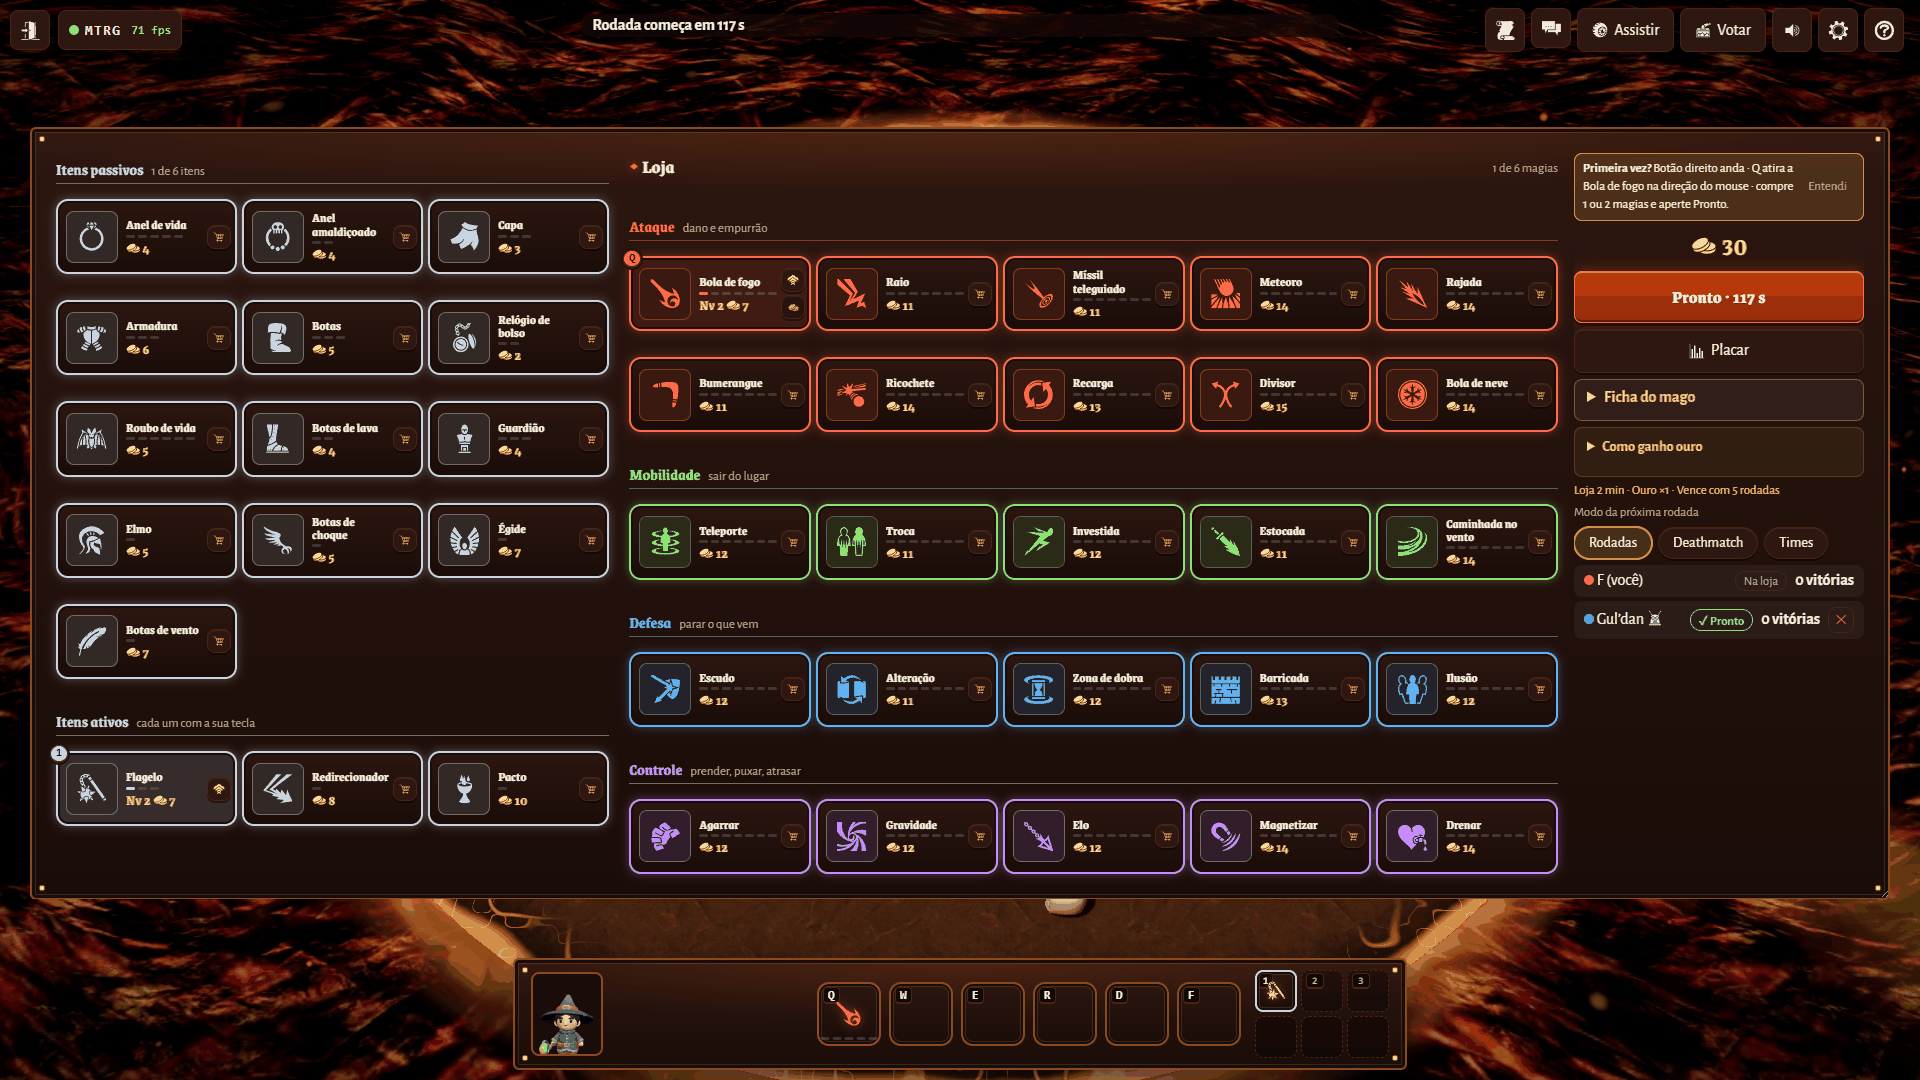
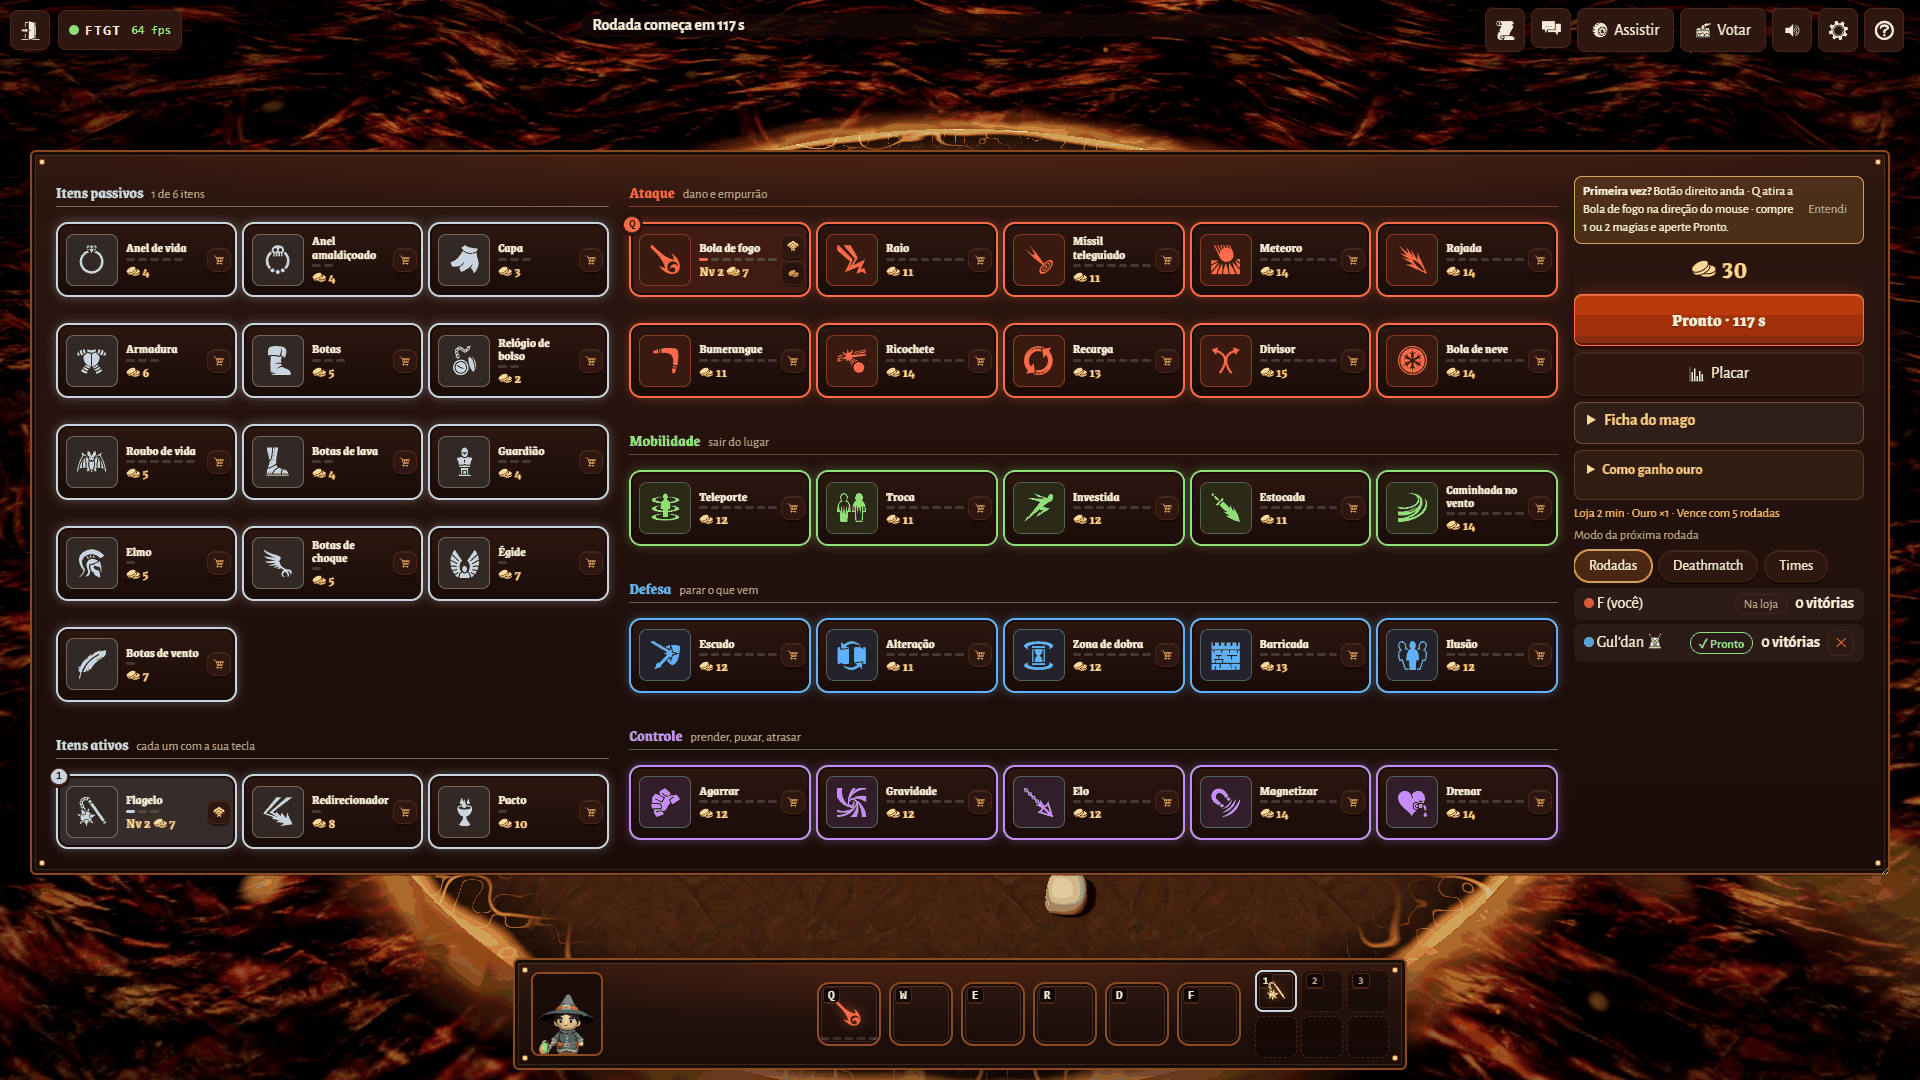
style: loja sem título e sem a contagem de magias, colunas alinhadas
- "Ataque" na mesma linha de "Itens passivos" (pedido do Fernando); o ✕ da loja da partida vai para o canto da caixa
- regras de reticências do título apagadas (sem uso)

diff --git a/src/client/style.css b/src/client/style.css
@@ -1130,11 +1130,12 @@ div.shop-tile { border-color: var(--line); box-sizing: border-box; }
   .compact-shop .shop-main, .compact-shop .shop-items { gap: var(--gap-v); }
   .compact-shop .shop-group { gap: calc(var(--gap-v) / 2 + 2px); }
   .compact-shop .shop-head { gap: 4px 8px; }
-  .compact-shop .shop-head h2 { font-size: 1.15rem; }
   .compact-shop .shop-head h3 { font-size: 1rem; }
-  .shop.compact-shop .shop-main > .shop-head { flex-wrap: nowrap; }
-  .shop.compact-shop .shop-main > .shop-head h2 { white-space: nowrap; }
-  .shop.compact-shop .shop-main > .shop-head small { min-width: 0; overflow: hidden; text-overflow: ellipsis; white-space: nowrap; } /* numa linha: a quebra dava 33 px de rolagem na gaveta em 1280 */
+  /* sem título nem contagem de magias: "Ataque" alinha com "Itens passivos" (Fernando, 21/10); o ✕ da loja da partida fica no canto da caixa */
+  .shop.compact-shop { position: relative; }
+  .shop.compact-shop .shop-main > .shop-head { display: contents; }
+  .shop.compact-shop .shop-main > .shop-head > :not(.peek-close) { display: none; }
+  .shop.compact-shop .peek-close { position: absolute; top: 4px; right: 4px; z-index: 2; width: 32px; min-height: 32px; margin: 0; }
   .shop.compact-shop .shop-grid { gap: var(--gap-v) 5px; }
   .shop.compact-shop .shop-main .shop-grid { grid-template-columns: repeat(5, minmax(0, 1fr)); }
   /* um cartão só para itens e magias (Fernando, 21/10): o ícone num quadro da cor do grupo à esquerda; nome, nível e preço empilhados à direita.

diff --git a/CLAUDE.md b/CLAUDE.md
@@ -136,7 +136,7 @@ Toda decisão nova entra aqui (data, decisão, porquê); se mudar o jeito de cod
 | 21/10 | **Modo espectador**: botão Assistir na lista de salas e na sala; quem assiste fica sem mago a partir da próxima rodada (na sandbox, na hora), com pontos, ouro e compras guardados para voltar a jogar se houver vaga (PR #151, issue #148) | pedido do Sky; "a 151 pode entrar tbm", depois de testar no ambiente do PR |
 | 21/10 | Espectador (quem caiu ou assiste) tem o botão **Câmera no centro da arena** na barra "Assistindo": ligado, a câmera fica parada no centro (para onde a arena encolhe) em vez de seguir o mago; a escolha fica salva no navegador (PR #194) | pedido do Reinaldo: seguindo um mago na borda, a arena que encolhe saía da tela |
 | 21/10 | No modo de lançamento **Rápido**, ao lançar, a faixa de acerto e o círculo da área piscam junto com o anel (400 ms), **parados no ponto e na direção do lançamento** (não seguem o mouse depois) | "no modo lançar pela tecla rápido era para também ter o hitbox flashando igual aparece no lançamento ao soltar click" |
-| 21/10 | **Cartão da loja num desenho só** para itens, magias e vagas (PR #197): colunas de itens e magias em `3fr`/`5fr` (item e magia com a mesma largura), altura presa à largura (`aspect-ratio: 5 / 2`, de 60 a 74 px) para o mesmo formato em 16:9 e ultrawide, ícone num quadro da cor do grupo, padding igual nos quatro lados, comprar/subir de nível, vender e desfazer numa coluna à direita (no cartão estreito só vender e desfazer), tecla numa bolinha por cima do canto só no que está equipado, e a faixa de vagas saiu de cima da loja: a ordem das magias se troca só na **barra de baixo**, a mesma da partida, que no PC fica à vista com a loja aberta (a loja termina acima dela, centralizada entre as duas barras, com padding de 24 px e **sem a busca pelo nome**); arrastar uma vaga leva o ícone junto e acende a vaga de destino. Substitui em parte a linha de 21/10 das lojas compactas (#163: as alturas e fontes de cartão e as 9 vagas na loja) e a de 20/10 (#121: cartão de item de 105 px e coluna de 334 px) | "esse menu da loja está todo desalinhado os cards"; "dependendo se esta em ultra wide ou 16:9 fica diferente as proporcoes"; "pode colocar icones de comprar upgrade e venda no lado direito do card"; "retire essa barra aqui e o cara vai mexer nas skills apenas na barra la de baixo a msm q ele usa na gameplay"; "pode tirar essa barra de buscas e colocar paddings maiores nas bordas ... e deixar centralizado a loja" |
+| 21/10 | **Cartão da loja num desenho só** para itens, magias e vagas (PR #197): colunas de itens e magias em `3fr`/`5fr` (item e magia com a mesma largura), altura presa à largura (`aspect-ratio: 5 / 2`, de 60 a 74 px) para o mesmo formato em 16:9 e ultrawide, ícone num quadro da cor do grupo, padding igual nos quatro lados, comprar/subir de nível, vender e desfazer numa coluna à direita (no cartão estreito só vender e desfazer), tecla numa bolinha por cima do canto só no que está equipado, e a faixa de vagas saiu de cima da loja: a ordem das magias se troca só na **barra de baixo**, a mesma da partida, que no PC fica à vista com a loja aberta (a loja termina acima dela, centralizada entre as duas barras, com padding de 24 px, **sem a busca pelo nome** e sem o título "Loja" e a contagem de magias, para "Ataque" alinhar com "Itens passivos"); arrastar uma vaga leva o ícone junto e acende a vaga de destino. Substitui em parte a linha de 21/10 das lojas compactas (#163: as alturas e fontes de cartão e as 9 vagas na loja) e a de 20/10 (#121: cartão de item de 105 px e coluna de 334 px) | "esse menu da loja está todo desalinhado os cards"; "dependendo se esta em ultra wide ou 16:9 fica diferente as proporcoes"; "pode colocar icones de comprar upgrade e venda no lado direito do card"; "retire essa barra aqui e o cara vai mexer nas skills apenas na barra la de baixo a msm q ele usa na gameplay"; "pode tirar essa barra de buscas e colocar paddings maiores nas bordas ... e deixar centralizado a loja"; "tire esse loja e esse x de 6 magias pra ficar tudo alinhado" |
 | 21/10 | **Sandbox nasce com "Sem recarga" ligado** (desligar no painel volta a recarga; PR #197) | "o sandbox por padrao deve vir com o sem recarga ativado" |
 | 21/10 | Nada de fora entra na partida: todo mundo começa do zero quando a partida começa (sem montaria, stats de classe ou outro bônus trazido de fora); foco no balanceamento das magias que já existem | Fernando no grupo: "o jogo ainda não vai ter a mecânica de trazer itens externos para dentro da partida ... todo mundo tem que começar do 0"; com 3 fatores externos (montaria, classe, efeito de mapa) os números ficam complicados demais |
 
